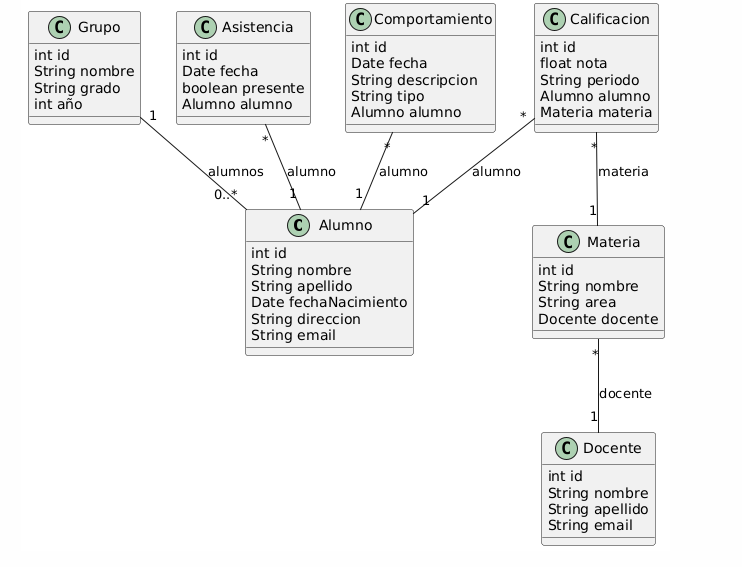
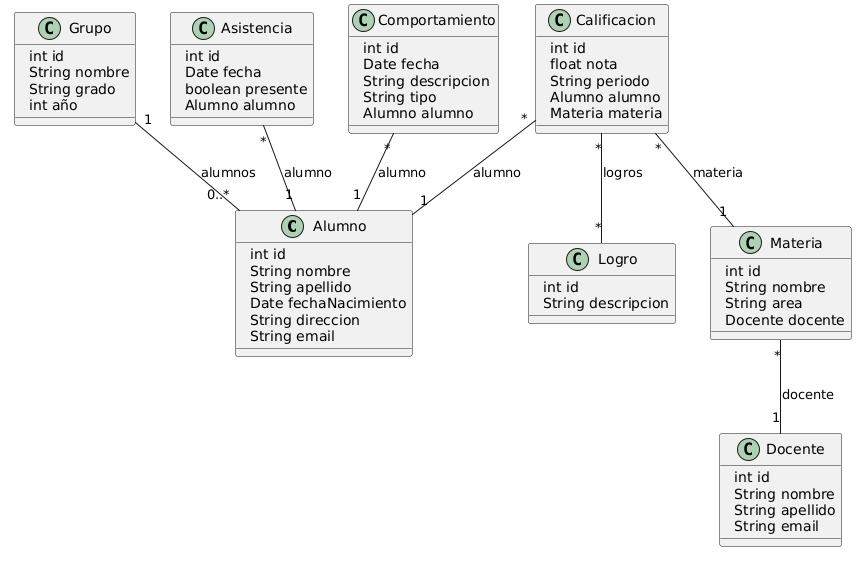
Logros backend

diff --git a/src/main/resources/templates/materia/lista-materias.html b/src/main/resources/templates/materia/lista-materias.html
@@ -1,0 +1,58 @@
+<!DOCTYPE html>
+<html xmlns:th="http://www.thymeleaf.org">
+<head>
+    <meta charset="UTF-8">
+    <title>Lista de Materias</title>
+    <link rel="stylesheet" href="https://cdn.jsdelivr.net/npm/bootstrap@5.3.0/dist/css/bootstrap.min.css">
+    <!-- Bootstrap Icons -->
+    <link rel="stylesheet" href="https://cdn.jsdelivr.net/npm/bootstrap-icons@1.10.5/font/bootstrap-icons.css">
+</head>
+<body>
+<div class="container mt-5">
+    <h2>Listado de Materias</h2>
+
+    <!-- Mensaje de éxito -->
+    <div th:if="${success}" class="alert alert-success" th:text="${success}"></div>
+
+    <a th:href="@{/materia/nuevo}" class="btn btn-primary mb-3">Nueva Materia</a>
+
+    <div th:if="${#lists.isEmpty(materias)}" class="alert alert-warning">
+        No hay materias registradas.
+    </div>
+
+    <table class="table table-bordered" th:if="${!#lists.isEmpty(materias)}">
+        <thead>
+            <tr>
+                <th>ID</th>
+                <th>Nombre</th>
+                <th>Área</th>
+                <th>Docente</th>
+                <th>Acciones</th>
+            </tr>
+        </thead>
+        <tbody>
+            <tr th:each="materia : ${materias}">
+                <td th:text="${materia.id}">1</td>
+                <td th:text="${materia.nombre}">Matemáticas</td>
+                <td th:text="${materia.area}">Ciencias Exactas</td>
+                <td th:text="${materia.docente.nombre + ' ' + materia.docente.apellido}">Juan Pérez</td>
+                <td>
+                    <!-- Editar -->
+                    <a th:href="@{|/materia/editar/${materia.id}|}" class="btn btn-sm btn-warning" title="Editar">
+                        <i class="bi bi-pencil"></i>
+                    </a>
+
+                    <!-- Eliminar -->
+                    <a th:href="@{|/materia/eliminar/${materia.id}|}"
+                       class="btn btn-sm btn-danger"
+                       title="Eliminar"
+                       onclick="return confirm('¿Estás seguro de eliminar esta materia?');">
+                        <i class="bi bi-trash"></i>
+                    </a>
+                </td>
+            </tr>
+        </tbody>
+    </table>
+</div>
+</body>
+</html>

diff --git a/src/main/resources/templates/materia/nuevo-materia.html b/src/main/resources/templates/materia/nuevo-materia.html
@@ -1,0 +1,46 @@
+<!DOCTYPE html>
+<html xmlns:th="http://www.thymeleaf.org">
+<head>
+    <meta charset="UTF-8">
+    <title th:text="${materia.id == 0} ? 'Registrar Nueva Materia' : 'Editar Materia'">Materia</title>
+    <link rel="stylesheet" href="https://cdn.jsdelivr.net/npm/bootstrap@5.3.0/dist/css/bootstrap.min.css">
+</head>
+<body>
+<div class="container mt-5">
+    <h2 th:text="${materia.id == 0} ? 'Registrar Nueva Materia' : 'Editar Materia'">Registrar Nueva Materia</h2>
+
+    <div th:if="${errors}" class="alert alert-danger" th:text="${errors}"></div>
+
+    <form th:action="@{/materia/guardar}" th:object="${materia}" method="post" class="needs-validation" novalidate>
+        <input type="hidden" th:field="*{id}"/>
+
+        <div class="mb-3">
+            <label for="nombre" class="form-label">Nombre</label>
+            <input type="text" id="nombre" th:field="*{nombre}" class="form-control" required>
+            <div class="text-danger" th:if="${#fields.hasErrors('nombre')}" th:errors="*{nombre}"></div>
+        </div>
+
+        <div class="mb-3">
+            <label for="area" class="form-label">Área</label>
+            <input type="text" id="area" th:field="*{area}" class="form-control" required>
+            <div class="text-danger" th:if="${#fields.hasErrors('area')}" th:errors="*{area}"></div>
+        </div>
+
+        <div class="mb-3">
+            <label for="docente" class="form-label">Docente Asignado</label>
+            <select id="docente" th:field="*{docente}" class="form-select" required>
+                <option value="" disabled selected>Seleccione un docente</option>
+                <option th:each="d : ${docentes}" 
+                        th:value="${d.id}" 
+                        th:text="${d.nombre + ' ' + d.apellido}">
+                </option>
+            </select>
+            <div class="text-danger" th:if="${#fields.hasErrors('docente')}" th:errors="*{docente}"></div>
+        </div>
+
+        <button type="submit" class="btn btn-primary">Guardar</button>
+        <a th:href="@{/materia/lista}" class="btn btn-secondary">Cancelar</a>
+    </form>
+</div>
+</body>
+</html>

diff --git a/src/main/java/com/example/GestionAcademica/controllers/MateriaController.java b/src/main/java/com/example/GestionAcademica/controllers/MateriaController.java
@@ -1,5 +1,97 @@
 package com.example.GestionAcademica.controllers;
 
+import java.util.List;
+
+import org.springframework.stereotype.Controller;
+import org.springframework.ui.Model;
+import org.springframework.validation.BindingResult;
+import org.springframework.web.bind.annotation.GetMapping;
+import org.springframework.web.bind.annotation.ModelAttribute;
+import org.springframework.web.bind.annotation.PathVariable;
+import org.springframework.web.bind.annotation.PostMapping;
+import org.springframework.web.bind.annotation.RequestMapping;
+import org.springframework.web.bind.annotation.SessionAttributes;
+import org.springframework.web.bind.support.SessionStatus;
+import org.springframework.web.servlet.mvc.support.RedirectAttributes;
+
+import com.example.GestionAcademica.modelos.Materia;
+import com.example.GestionAcademica.service.Docente.DocenteInterface;
+import com.example.GestionAcademica.service.Materia.MateriaInterface;
+
+import jakarta.validation.Valid;
+
+@Controller
+@RequestMapping("/materia")
+@SessionAttributes("materia")
 public class MateriaController {
-    
+    private final MateriaInterface materiaServicio;
+    private final DocenteInterface docenteServicio;
+    public MateriaController(MateriaInterface materiaServicio, DocenteInterface docenteServicio) {
+        this.docenteServicio = docenteServicio;
+        this.materiaServicio = materiaServicio;
+    }
+
+    // Mostrar formulario nuevo gateria
+    @GetMapping("/nuevo")
+    public String nuevoMateria(Model model) {
+        model.addAttribute("materia", new Materia());
+        model.addAttribute("docentes", docenteServicio.obtenerTodosLosDocentes());
+        return "materia/nuevo-materia";
+    }
+
+    // Guardar gateria
+    @PostMapping("/guardar")
+    public String guardarMateria(@Valid @ModelAttribute Materia materia,
+                               BindingResult errors,
+                               Model model,
+                               RedirectAttributes flash,
+                               SessionStatus status) {
+
+        if (errors.hasErrors()) {
+            model.addAttribute("errors", "Corrige los errores del formulario.");
+            return "materia/nuevo-materia";
+        }
+
+        materiaServicio.guardarMateria(materia);
+        status.setComplete();
+        flash.addFlashAttribute("success", "Materia guardado exitosamente.");
+        return "redirect:/materia/lista";
+    }
+
+    // Lista de gaterias
+    @GetMapping("/lista")
+    public String listaMaterias(Model model) {
+        List<Materia> gaterias = materiaServicio.listarMaterias();
+        model.addAttribute("materias", gaterias);
+        return "materia/lista-materias";
+    }
+
+    // Consultar gateria
+    @GetMapping("/consultar/{id}")
+    public String consultarGateria(@PathVariable int id, Model model) {
+        Materia materia = materiaServicio.obtenerMateriaPorId(id);
+        if (materia != null) {
+            model.addAttribute("materia", materia);
+            return "materia/consultar-gateria";
+        }
+        return "redirect:/materia/lista";
+    }
+
+    // Editar gateria
+    @GetMapping("/editar/{id}")
+    public String editarGateria(@PathVariable int id, Model model) {
+        Materia materia = materiaServicio.obtenerMateriaPorId(id);
+        if (materia != null) {
+            model.addAttribute("materia", materia);
+            return "materia/nuevo-materia";
+        }
+        return "redirect:/materia/lista";
+    }
+
+    // Eliminar gateria
+    @GetMapping("/eliminar/{id}")
+    public String eliminarGateria(@PathVariable int id) {
+        materiaServicio.eliminarMateria(id);
+        return "redirect:/materia/lista";
+    }
 }

diff --git a/src/main/java/com/example/GestionAcademica/modelos/Logro.java b/src/main/java/com/example/GestionAcademica/modelos/Logro.java
@@ -1,0 +1,51 @@
+package com.example.GestionAcademica.modelos;
+
+import jakarta.persistence.*;
+import jakarta.validation.constraints.NotBlank;
+import jakarta.validation.constraints.Pattern;
+import jakarta.validation.constraints.Size;
+
+@Entity
+@Table(name = "logros")
+public class Logro {
+    @Id
+    @GeneratedValue(strategy = GenerationType.IDENTITY)
+    int id;
+
+    @Column(name = "descripcion", nullable = false, length = 255)
+    @NotBlank(message = "La descripción no puede estar vacía")
+    @Size(max = 255, message = "La descripción no puede tener más de 255 caracteres")
+    @Pattern(regexp = "^[A-Za-z0-9áéíóúÁÉÍÓÚñÑ ,.-]+$", message = "La descripción solo puede contener letras, números y algunos caracteres especiales")
+    String descripcion;
+
+    public Logro() {
+    }
+
+    public Logro(int id,
+            @NotBlank(message = "La descripción no puede estar vacía") @Size(max = 255, message = "La descripción no puede tener más de 255 caracteres") @Pattern(regexp = "^[A-Za-z0-9áéíóúÁÉÍÓÚñÑ ,.-]+$", message = "La descripción solo puede contener letras, números y algunos caracteres especiales") String descripcion) {
+        this.id = id;
+        this.descripcion = descripcion;
+    }
+
+    public int getId() {
+        return id;
+    }
+
+    public void setId(int id) {
+        this.id = id;
+    }
+
+    public String getDescripcion() {
+        return descripcion;
+    }
+
+    public void setDescripcion(String descripcion) {
+        this.descripcion = descripcion;
+    }
+
+    @Override
+    public String toString() {
+        return "Logro [id=" + id + ", descripcion=" + descripcion + "]";
+    }
+
+}

diff --git a/src/main/java/com/example/GestionAcademica/service/logro/LogroServicio.java b/src/main/java/com/example/GestionAcademica/service/logro/LogroServicio.java
@@ -1,0 +1,45 @@
+package com.example.GestionAcademica.service.logro;
+
+import java.util.List;
+
+import com.example.GestionAcademica.modelos.Logro;
+import com.example.GestionAcademica.repository.LogroDAO;
+
+public class LogroServicio implements LogroInterface {
+
+    private final LogroDAO logroDAO;
+
+    public LogroServicio(LogroDAO logroDAO) {
+        this.logroDAO = logroDAO;
+    }
+
+    @Override
+    public void crearLogro(Logro logro) {
+        logroDAO.save(logro);
+    }
+
+    @Override
+    public void actualizarLogro(int id, String descripcion) {
+        Logro logroExistente = logroDAO.findById(id).orElseThrow(() -> new RuntimeException("Logro no encontrado"));
+        logroExistente.setDescripcion(descripcion);
+        logroDAO.save(logroExistente);
+    }
+
+    @Override
+    public void eliminarLogro(int id) {
+        logroDAO.deleteById(id);
+    }
+
+    @Override
+    public List<String> listarLogros() {
+        return logroDAO.findAll().stream()
+                .map(Logro::getDescripcion)
+                .toList();
+    }
+
+    @Override
+    public Logro obtenerLogroPorId(int id) {
+        return logroDAO.findById(id).orElseThrow(() -> new RuntimeException("Logro no encontrado"));
+    }
+    
+}

diff --git a/src/main/java/com/example/GestionAcademica/service/logro/LogroInterface.java b/src/main/java/com/example/GestionAcademica/service/logro/LogroInterface.java
@@ -1,0 +1,13 @@
+package com.example.GestionAcademica.service.logro;
+
+import java.util.List;
+
+import com.example.GestionAcademica.modelos.Logro;
+
+public interface LogroInterface {
+    void crearLogro(Logro logro);
+    void actualizarLogro(int id, String descripcion);
+    void eliminarLogro(int id);
+    List<String> listarLogros();
+    Logro obtenerLogroPorId(int id);
+}

diff --git a/src/main/java/com/example/GestionAcademica/repository/LogroDAO.java b/src/main/java/com/example/GestionAcademica/repository/LogroDAO.java
@@ -1,0 +1,10 @@
+package com.example.GestionAcademica.repository;
+
+import org.springframework.data.jpa.repository.JpaRepository;
+import org.springframework.stereotype.Repository;
+
+import com.example.GestionAcademica.modelos.Logro;
+@Repository
+public interface LogroDAO extends JpaRepository<Logro, Integer> {
+
+}
